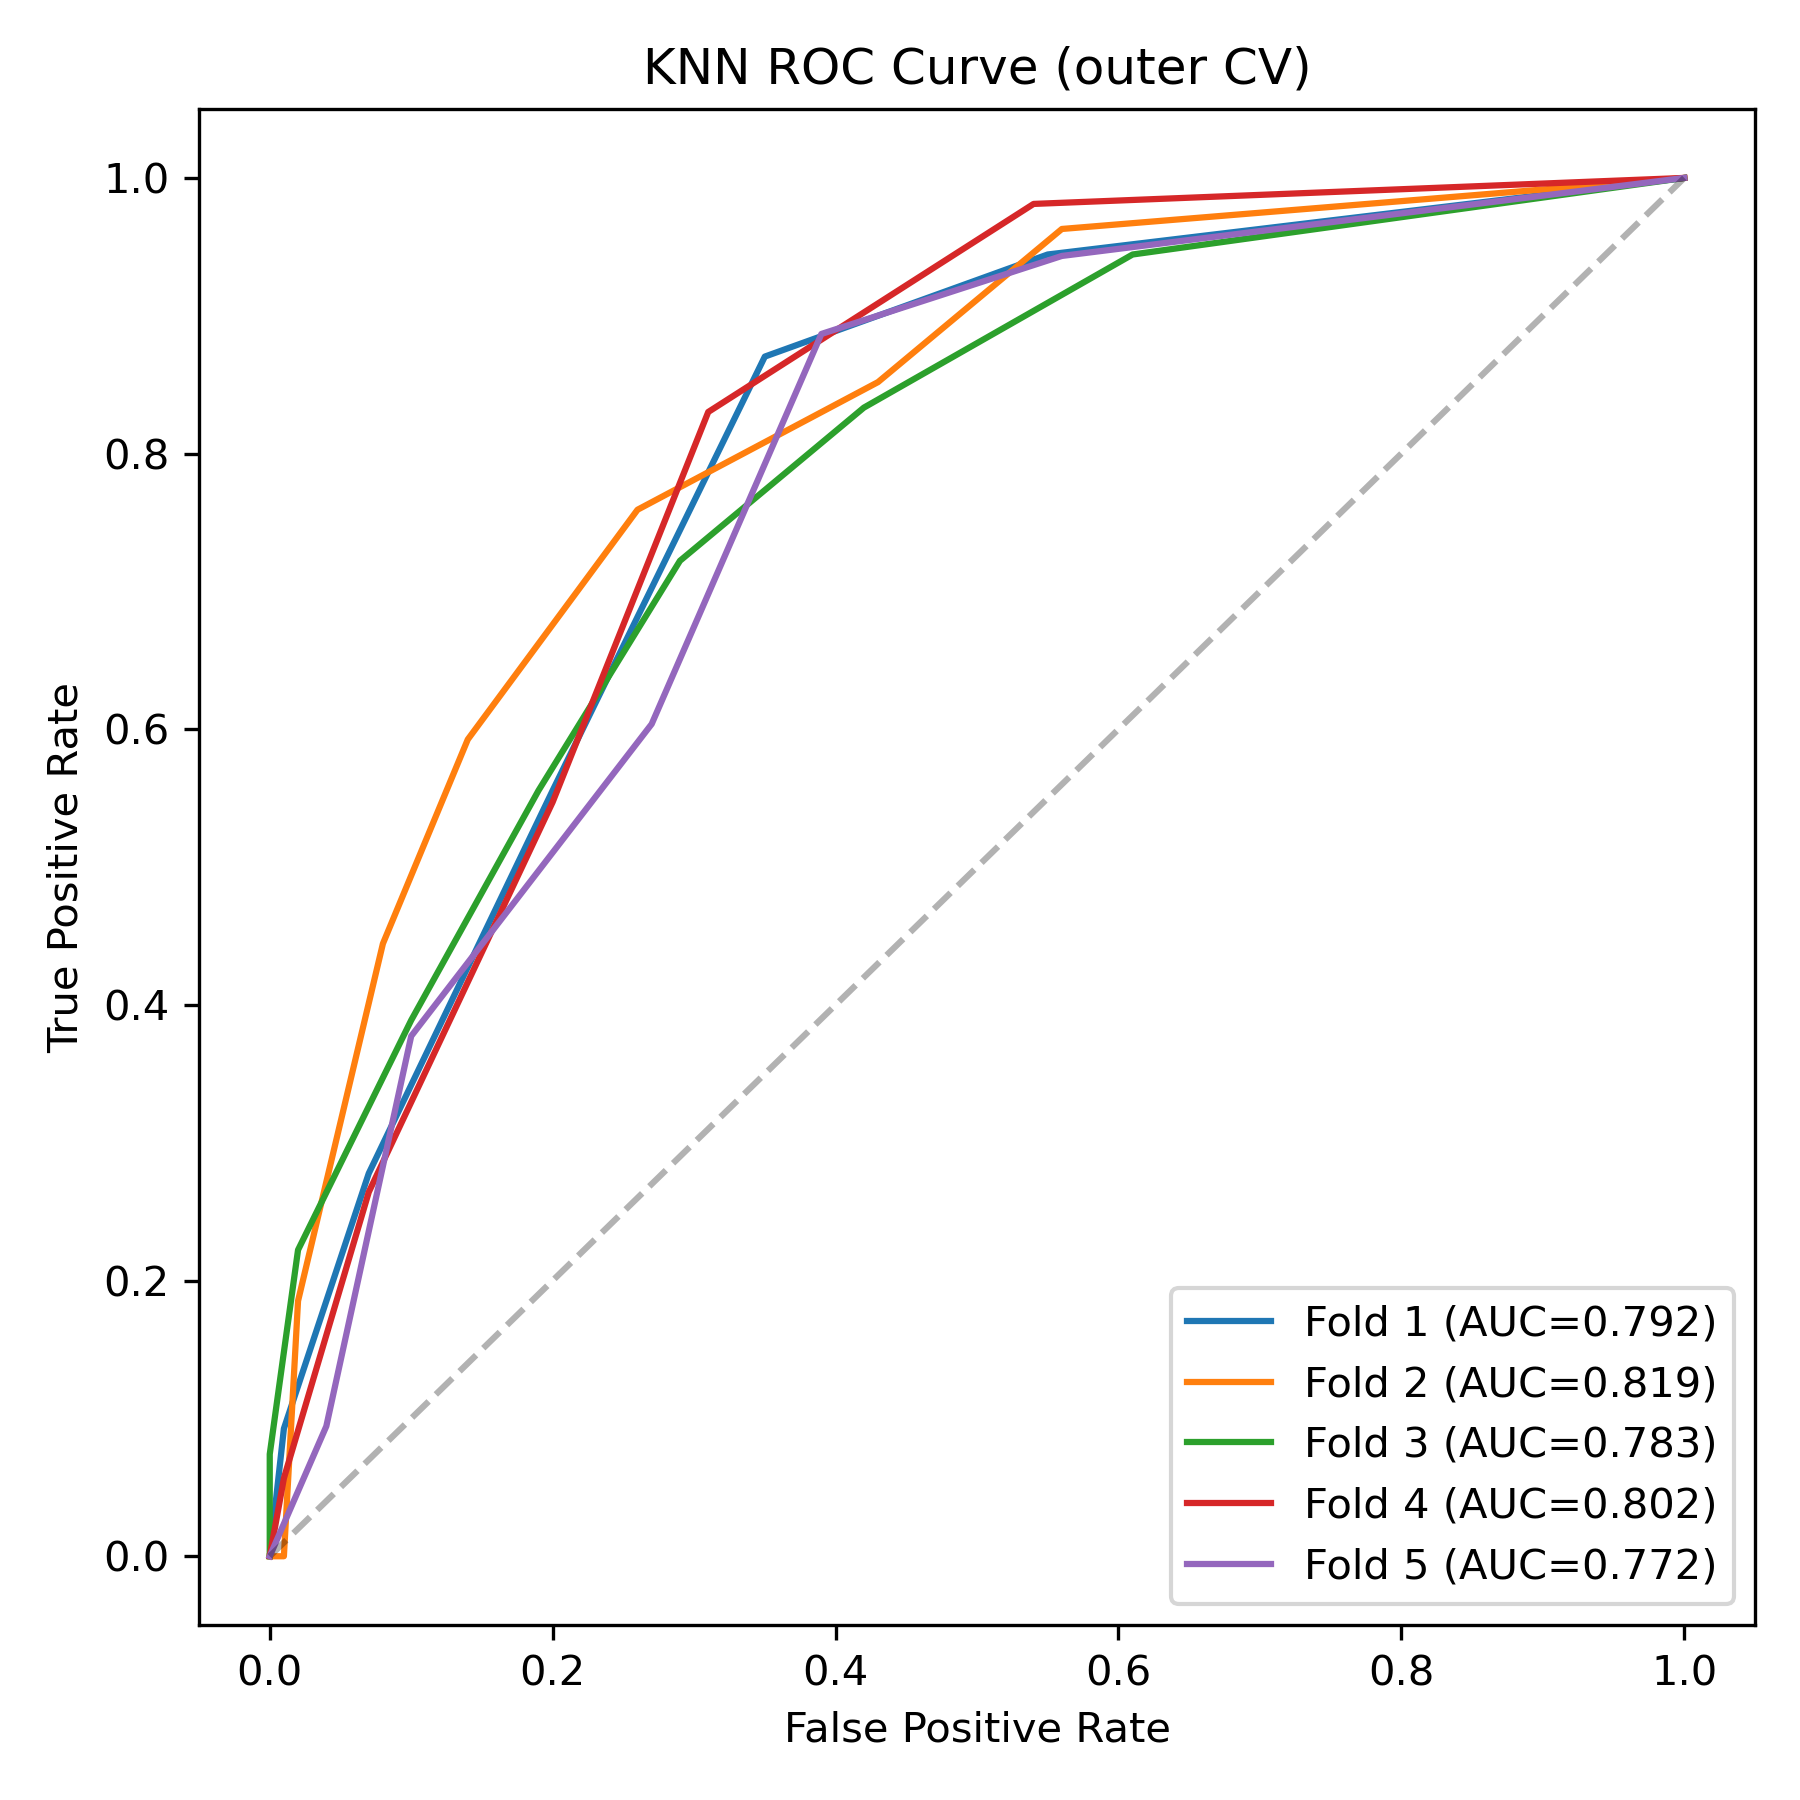
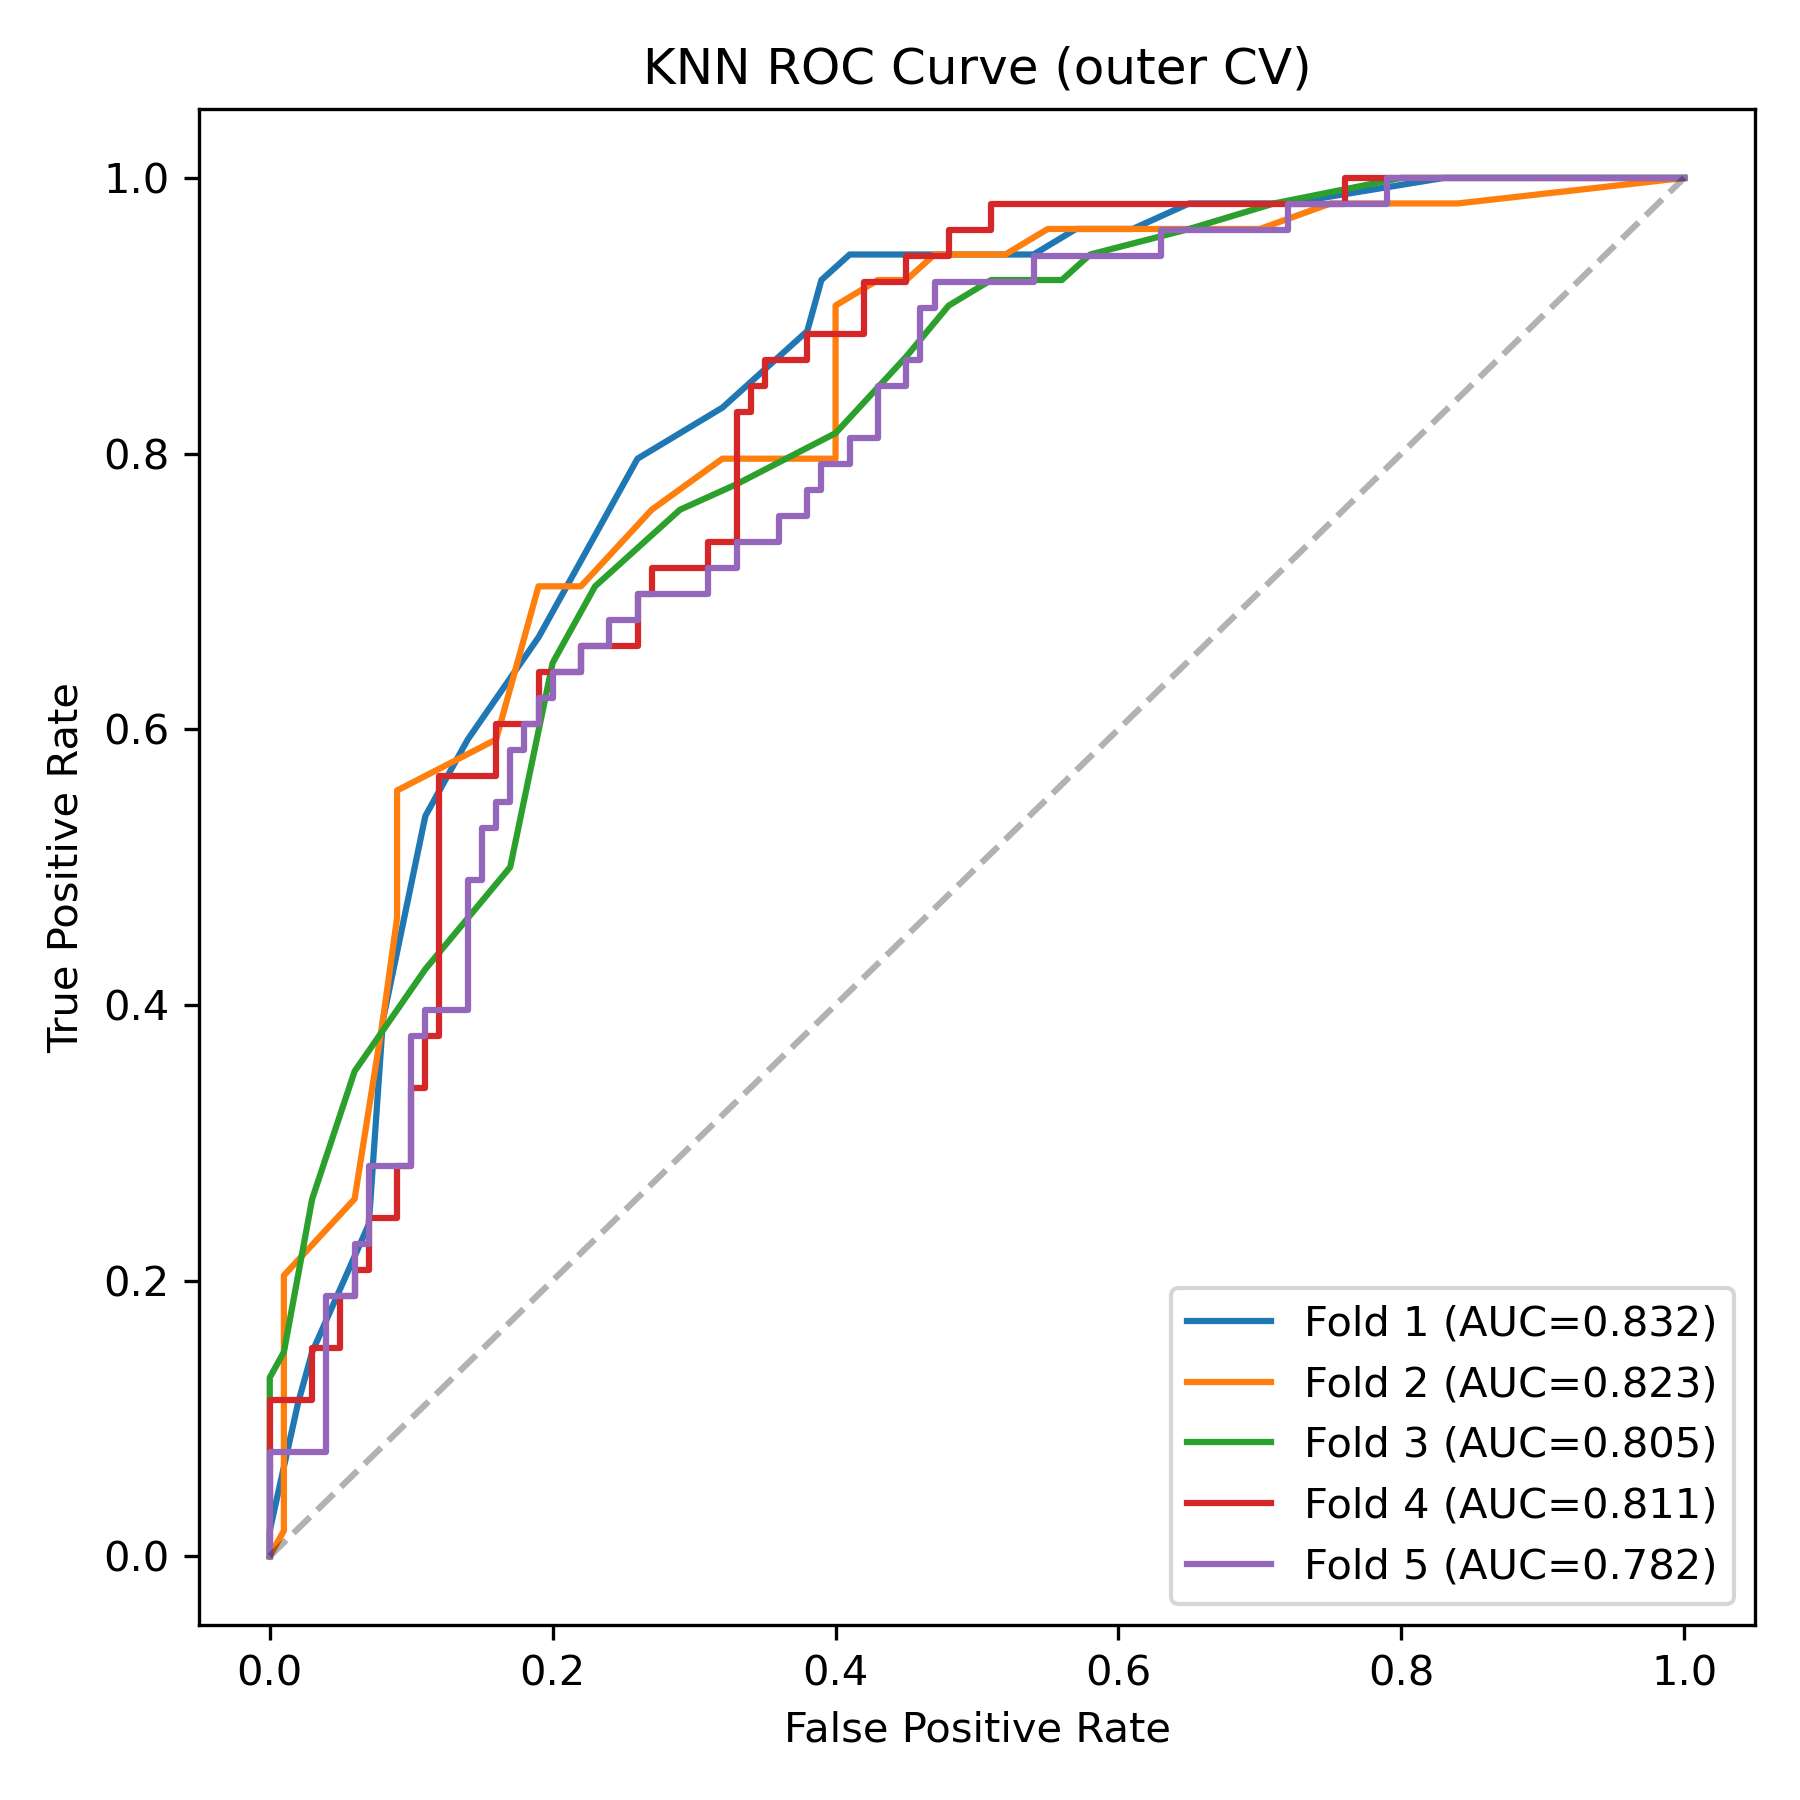
forgot to add changes in the plots. here we go

Changed region(s): [[0.1244, 0.0933, 0.9333, 0.8711], [0.9022, 0.7156, 0.9333, 0.8711]]

diff --git a/main/model_pipeline.py b/main/model_pipeline.py
@@ -1,19 +1,6 @@
 #%%
-<<<<<<< HEAD
-import numpy as np
-import pandas as pd
-from sklearn.pipeline import Pipeline
-from sklearn.impute import KNNImputer
-from sklearn.preprocessing import StandardScaler
-from sklearn.ensemble import RandomForestClassifier
-from sklearn.linear_model import LogisticRegression
-from sklearn.svm import SVC
-from sklearn.neighbors import KNeighborsClassifier
-from sklearn.model_selection import GridSearchCV, StratifiedKFold, cross_validate
-=======
-
-import numpy as np                            # Numerical operations (arrays, vectorized math)
-import pandas as pd                           # Data loading and DataFrame manipulation
+import numpy as np                                            # Numerical operations (arrays, vectorized math)
+import pandas as pd                                           # Data loading and DataFrame manipulation
 from sklearn.metrics.pairwise import manhattan_distances
 
 # === Pipelines ===
@@ -24,7 +11,7 @@ from imblearn.pipeline import Pipeline as ImbPipeline         # Pipeline support
 from imblearn.over_sampling import SMOTE                      # Synthetic Minority Over-sampling Technique for class imbalance
 
 # === Preprocessing ===
-from sklearn.impute import SimpleImputer, KNNImputer          # Missing value imputation (mean/median or KNN-based)
+from sklearn.impute import KNNImputer                         # Missing value imputation (mean/median or KNN-based)
 from sklearn.preprocessing import StandardScaler              # Standardization (z-score normalization)
 
 # ===  Classifiers ===
@@ -38,17 +25,6 @@ from sklearn.model_selection import GridSearchCV              # Hyperparameter t
 from sklearn.model_selection import StratifiedKFold           # Stratified K-fold cross-validation
 from sklearn.model_selection import cross_validate            # Evaluate models across folds with multiple metrics
 
-# === Evaluation Metrics ===
-from sklearn.metrics import (
-    accuracy_score,                                            # Classification accuracy
-    precision_score,                                           # Positive predictive value
-    recall_score,                                              # Sensitivity / True positive rate
-    f1_score,                                                  # Harmonic mean of precision and recall
-    roc_auc_score,                                             # Area under the ROC curve
-    confusion_matrix,                                          # Confusion matrix (TP, FP, FN, TN)
-    make_scorer                                                # Custom scoring for model evaluation
-)
->>>>>>> f23d5962f4c23dd837d6d8443e4cda6895960aab
 
 # ---- Importing custom module for plotting ----
 import os
@@ -60,9 +36,6 @@ sys.path.insert(0, project_root)
 from support.plotting_module import plot_roc_curves, plot_confusion_matrices
 from support.shap_module import plot_shap_summary
 # --------------------------------
-
-
-
 
 # ---- Temporary Debug Imputer ----
 from sklearn.impute import KNNImputer as SKKNNImputer
@@ -83,10 +56,8 @@ class DebugKNNImputer(SKKNNImputer):
 
 # --------------------------------
 
-
-
 def load_data():
-    file_path = '../../data/nan_df.csv' # Adjust the path as needed
+    file_path = '../data/nan_df.csv' # Adjust the path as needed
     df = pd.read_csv(file_path)
     X = df.drop(columns = ['Outcome'])
     y = df['Outcome']
@@ -116,14 +87,9 @@ def evaluate_models(X, y):
             #'clf__gamma': ['scale', 'auto']
         },
         'KNN' : {
-<<<<<<< HEAD
-            'clf__n_neighbors': [3, 5, 7, 15, 20],
-            'clf__weights': ['uniform']
-=======
             'clf__n_neighbors': list(range(15, 41, 2)),
             'clf__weights': ['distance', 'uniform'],
             'clf__metric': ['manhattan','euclidean'],
->>>>>>> f23d5962f4c23dd837d6d8443e4cda6895960aab
         },
         'RandomForest' : {
             'clf__n_estimators': [50, 100],
@@ -154,24 +120,11 @@ def evaluate_models(X, y):
     for name, base_clf in models.items():
         print(f"\n### Evaluating {name}... ###")
 
-<<<<<<< HEAD
         #ideal imputer was defined from proc_data.ipynb in a cross-validation test loop. reinstantiate in loop to minimize dataleakage. 
         imputer = KNNImputer(n_neighbors=5)
         #imputer = SimpleImputer(strategy='median')  # Use SimpleImputer for simplicity in this example
         scaler = StandardScaler()
-
-        #build the pipeline
-        pipeline = Pipeline([
-            ('imputer', imputer),
-            ('scaler', scaler),
-            ('clf', base_clf),     
-        ], verbose= False)
-
-        # ---- KNN processing steps? ----#
-=======
->>>>>>> f23d5962f4c23dd837d6d8443e4cda6895960aab
-
-        # ---- KNN processing steps? ----
+       
         # --------Use SMOTE for KNN only--------
         if name == 'KNN':
             pipeline = ImbPipeline([
